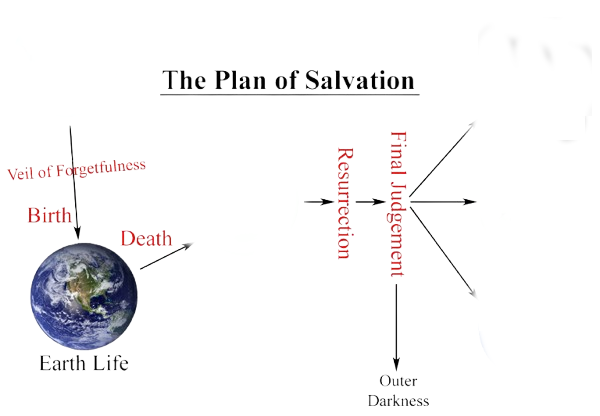
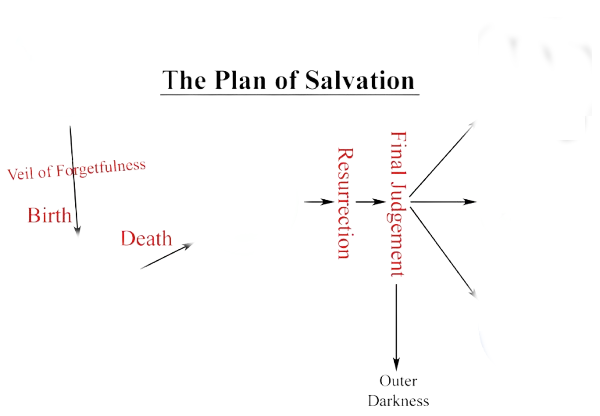
add earth

Changed region(s): [[0.03, 0.5312, 0.24, 0.9062]]

diff --git a/assets/js/planOfHappiness/main.js b/assets/js/planOfHappiness/main.js
@@ -82,6 +82,43 @@ class GameLevelDesert {
     }
     };
 
+    const sprite_src_earth = path + "/images/gamify/earth.png";
+    const sprite_greet_earth = "Welcome to the earth Existence";
+    const sprite_data_earth = {
+    id: 'earth',
+    greeting: sprite_greet_earth,
+    src: sprite_src_earth,
+    SCALE_FACTOR: 3,
+    ANIMATION_RATE: 100,
+    INIT_POSITION: { x: (width * 2 / 80), y: (height * 26 / 40)},
+    orientation: {rows: 1, columns: 1 },
+    hitbox: { widthPercentage: 0.1, heightPercentage: 0.55 },
+    // Add dialogues array for random messages
+    dialogues: [
+        "We have the opportunity to prove we will be faithful on Earth.",
+        "In the earth existence, we live as physical beings with bodies.",
+        "We face challenges and trials in the earth existence to help us grow.",
+        "Jesus Christ provided a way for us to return to God through His Atonement.",
+        "We can choose to follow God's commandments and live righteously on Earth.",
+        "The earth existence is a time of learning, growth, and preparation for the next life.",
+        "We can receive guidance from the Holy Ghost to help us make good choices on Earth."
+    ],
+    reaction: function() {
+        // Use dialogue system instead of alert
+        if (this.dialogueSystem) {
+            this.showReactionDialogue();
+        } else {
+            console.log(sprite_greet_earth);
+        }
+    },
+    interact: function() {
+        // Show random dialogue message
+        if (this.dialogueSystem) {
+            this.showRandomDialogue();
+        }
+    }
+    };
+
     const sprite_src_spirtWorld = path + "/images/gamify/spiritWorld.png";
     const sprite_greet_spirtWorld = "Welcome to the spirtWorld Existence";
     const sprite_data_spirtWorld = {
@@ -370,6 +407,7 @@ class GameLevelDesert {
       { class: GamEnvBackground, data: image_data_desert },
       { class: Player, data: sprite_data_chillguy },
       { class: Npc, data: sprite_data_premortal }, 
+      { class: Npc, data: sprite_data_earth }, 
       { class: Npc, data: sprite_data_spirtWorld }, 
       { class: Npc, data: sprite_data_sun }, 
       { class: Npc, data: sprite_data_moon }, 
